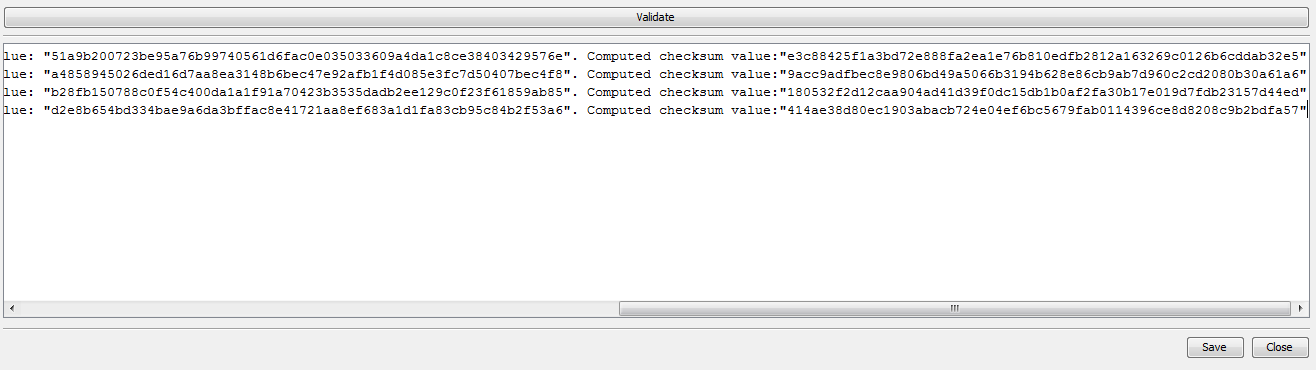
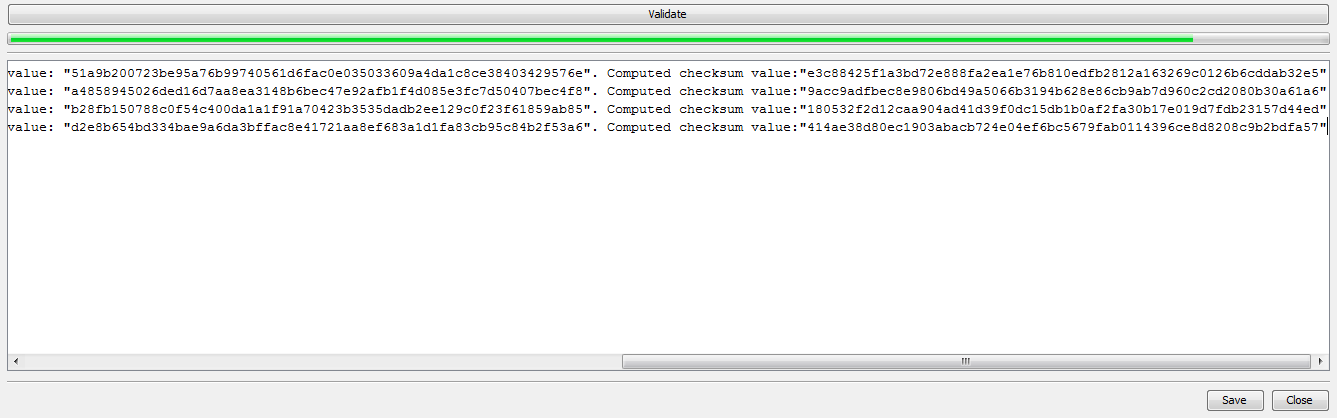
text updates and replacement images for progress bar

Changed region(s): [[0.0, 0.0, 0.997, 0.327], [0.0, 0.8027, 0.997, 1.0]]

diff --git a/index.html b/index.html
@@ -233,9 +233,11 @@
 					<h3>Validating a CSV file and understanding program output</h3>
 					<p>
 					Having selected a CSV file and schema, and chosen which settings (if any) to apply, validation is performed by clicking the large "Validate" button. 
-					Output is only written to the report pane (below the "Validate" button) when all rows have been validated.  If checksum verifcation is being performed, 
-					this can take a considerable amount of time, as each file described in the CSV file has to be read in full in order to calculate the checksum. 
-					The mouse pointer will change to the egg-timer (or equivalent) while validation is taking place.
+					As of Version 1.0-RC2, there is a progress bar (but due to a threading issue) that and output to the report pane (below the "Validate" button) is currently only 
+					updated when all rows have been validated (<a href="https://github.com/digital-preservation/csv-validator/issues/34">Issue #34 has been raised to address this). 
+					If checksum verifcation is being performed, the validation can take a considerable amount of time, as each file described in the CSV file has to be read in full 
+					in order to calculate the checksum. The mouse pointer will change to the egg-timer (or equivalent) while validation is taking place.
+					You should also note that information already in the output pane is currently not cleared when a new validation run is started (it is only overwritten on completion).
 					</p>
 					<p>
 					If the data is completely clean, and validates perfectly against the schema, the only output returned to the output pane will be <code>PASS</code>.
@@ -266,8 +268,9 @@ batch_code,department,series,piece,item,ordinal,file_uuid,file_path,file_checksu
 						<h4>Validation Errors</h4>
 						<p>
 						When <a href="./csv-schema-1.0.html#validation-errors">Validation Errors</a> occur they will be reported in the output pane on the completion of validation. 
-						The report will be prefixed "Error:  " and will then show the Validation Rule where the error has occurred, the line and data column from the CSV file where the 
-						error has occurred, the actual data present in the file, and for rules such as checksum validation, what the computed value the data was.
+						The report will be prefixed <code>Error:  </code> and will then show the Validation Rule where the error has occurred, 
+						the line and data column from the CSV file where the error has occurred, the actual data present in the file, and for rules such as checksum validation, 
+						what the computed value of the data was.
 						The line number refers to data lines only, so if the CSV file contains a header row, you may see an apparent discrepancy in the line numbers displayed when you view 
 						the data in a text editor or spreadsheet program, compared to the line number indicated by the csv-validator.
 						</p>
